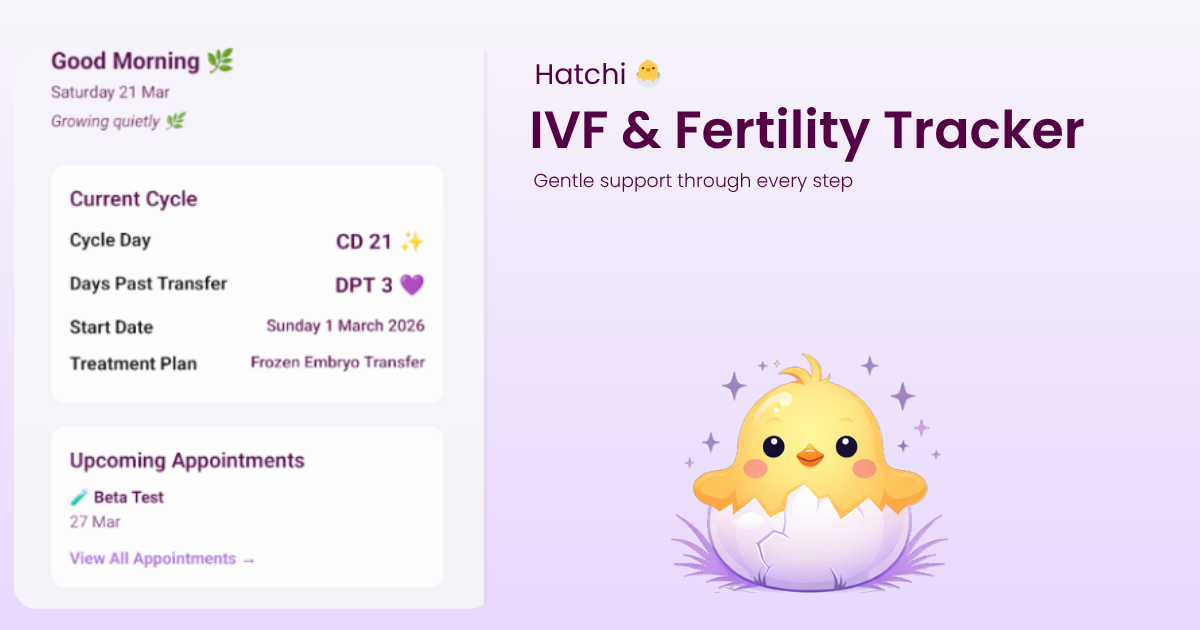
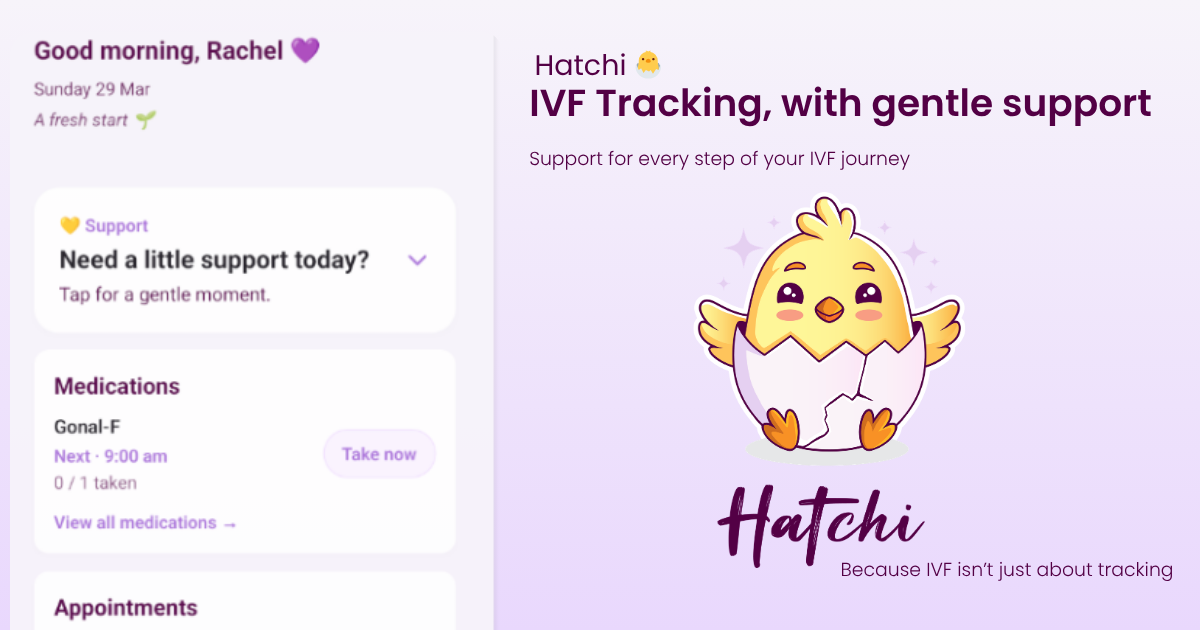
Add files via upload

diff --git a/index.html b/index.html
@@ -37,30 +37,80 @@
   <div class="hero">
     <img class="hero-logo" src="Hatchi Logo-chicken.PNG" alt="Hatchi logo with chick" />
 
-    <h1 class="page-title">Hatchi - IVF & Fertility Tracker App</h1>
+    <h1 class="page-title">
+  IVF tracking, with support when you need it most
+</h1>
 
+<p class="tagline">
+  Track your IVF cycle, medications, blood results, and key milestones in one calm, supportive app.
+</p>
+
+<div class="feature">
+  <p><strong>Built by someone who has been through fertility treatment.</strong></p>
+
+  <br>
+
+  <p>
+    IVF can feel overwhelming. There’s so much to keep track of, and most tools focus on data - not how it actually feels.
+  </p>
+
+  <br>
+
+  <p>
+    Hatchi helps you keep everything in one place - medications, blood results, appointments, and your full cycle timeline - without relying on spreadsheets.
+  </p>
+
+  <br>
+
+  <p>
+    Designed to feel simple, calm, and supportive when things already feel like a lot.
+  </p>
+
+  <br>
+
+  <p class="tagline">Coming soon 🐣</p>
+
+  <p>
+    Join the waitlist to be one of the first to try Hatchi and help shape it from the very beginning.
+  </p>
+</div>
+
+<section class="why-hatchi">
+  <div class="why-hatchi-intro">
+    <h2 class="section-heading">What makes Hatchi different 💛</h2>
     <p class="tagline">
-      Track your IVF cycle, medications, blood results, and key milestones in one calm, supportive app.
+      Hatchi isn’t just about tracking your cycle - it’s about supporting you through it.
     </p>
+  </div>
 
+  <div class="why-hatchi-grid">
     <div class="feature">
-      <p>Built by someone who has been through fertility treatment.</p>
-      <br>
-      <p>
-        Hatchi is an IVF tracker app designed to help you track medications, blood results, appointments, and cycle timelines in one place.
-      </p>
-      <br>
-      <p class="tagline">Hatchi is hatching soon!</p>
-      <p>
-        Join the waitlist to try a fertility tracker designed to replace spreadsheets and help you stay organised during IVF and treatment cycles.
-      </p>
-    </div>
+  <h3>🫶 Built for how IVF actually feels</h3>
+  <p>
+    Most apps focus on data. Hatchi is designed to support the emotional side of IVF too.
+  </p>
+</div>
+
+<div class="feature">
+  <h3>✨ Everything in one calm space</h3>
+  <p>
+    Track medications, blood results, appointments, and your cycle timeline in one place.
+  </p>
+</div>
+
+<div class="feature">
+  <h3>🐣 Gentle, not overwhelming</h3>
+  <p>
+    Hatchi is intentionally simple and supportive, so it helps without adding to the stress.
+  </p>
+</div>
+</section>
 
     <a class="hero-button" href="https://eepurl.com/jBKmeM" target="_blank" rel="noopener noreferrer" aria-label="Join the Hatchi early access waitlist">
       Get Early Access 🐣
     </a>
     <br>
-    <p class="waitlist-pill">💜 Help shape Hatchi from the very beginning</p>
+    <p class="waitlist-pill">💜 Join early and help shape Hatchi from the very beginning</p>
 
     <div class="benefits">
       <div class="benefit-chip">✨ Be one of the first to try Hatchi</div>
@@ -73,7 +123,7 @@
     </div>
 
     <p style="margin-top: 18px; color: #5d3f8f; max-width: 700px; margin-left: auto; margin-right: auto;">
-      Designed for IVF, FET, fertility medications, blood results, and cycle tracking in one calm, supportive app.
+      Everything you need for IVF, FET, medications, blood results, and cycle tracking - in one calm, supportive place.
     </p>
 
     <div class="comparison">
@@ -132,15 +182,17 @@
 
   <div class="founder">
     <h2 class="section-heading">About Hatchi 🐣</h2>
-    <p>
-      I’m building Hatchi to make fertility treatment tracking feel simpler, calmer, and more supportive.
-      <br><br>
-      After going through fertility treatment myself, I found myself relying on spreadsheets to track blood results, medications, appointments, and cycle details. I could not find an IVF tracker app that did everything I wanted in one place, so I decided to create it.
-      <br><br>
-      Hatchi is being made with care for people going through IVF and fertility journeys, with a focus on feeling calm, friendly, and supportive when things already feel overwhelming.
-      <br><br>
-      I’ll be looking for testers soon as Hatchi gets ready for Android, so feel free to get in touch if you’d like to be part of it.
-    </p>
+<p>
+  I’m building Hatchi to make fertility treatment tracking feel simpler, calmer, and more supportive.
+  <br><br>
+  After going through fertility treatment myself, I found myself relying on spreadsheets to track blood results, medications, appointments, and cycle details.
+  <br><br>
+  I couldn’t find an app that brought everything together in a way that felt simple and supportive - so I decided to create it.
+  <br><br>
+  Hatchi is being built with care for people going through IVF and fertility journeys, with a focus on feeling calm, friendly, and supportive when things already feel overwhelming.
+  <br><br>
+  I’ll be looking for testers soon as Hatchi gets ready for Android, so feel free to get in touch if you’d like to be part of it.
+</p>
   </div>
 
   <div class="contact">

diff --git a/styles.css b/styles.css
@@ -340,6 +340,61 @@ input[type="submit"] {
   text-decoration: underline;
 }
 
+.why-hatchi {
+  max-width: 1100px;
+  margin: 60px auto;
+  padding: 0 20px;
+}
+
+.why-hatchi-intro {
+  text-align: center;
+  max-width: 760px;
+  margin: 0 auto 32px;
+}
+
+.why-hatchi-intro .section-heading {
+  margin-bottom: 12px;
+}
+
+.why-hatchi-intro .tagline {
+  margin: 0;
+  color: #5d3f8f;
+  line-height: 1.6;
+}
+
+.why-hatchi-grid {
+  display: grid;
+  grid-template-columns: repeat(3, minmax(0, 1fr));
+  gap: 24px;
+  align-items: stretch;
+}
+
+.why-hatchi-grid .feature {
+  background: rgba(255, 255, 255, 0.72);
+  border-radius: 20px;
+  padding: 28px 24px;
+  text-align: center;
+  box-sizing: border-box;
+  min-height: 100%;
+}
+
+.why-hatchi-grid .feature h3 {
+  margin-top: 0;
+  margin-bottom: 14px;
+  line-height: 1.35;
+}
+
+.why-hatchi-grid .feature p {
+  margin: 0;
+  line-height: 1.7;
+}
+
+@media (max-width: 900px) {
+  .why-hatchi-grid {
+    grid-template-columns: 1fr;
+  }
+}
+
 @media (max-width: 500px) {
   .tagline {
     font-size: 1.05rem;
